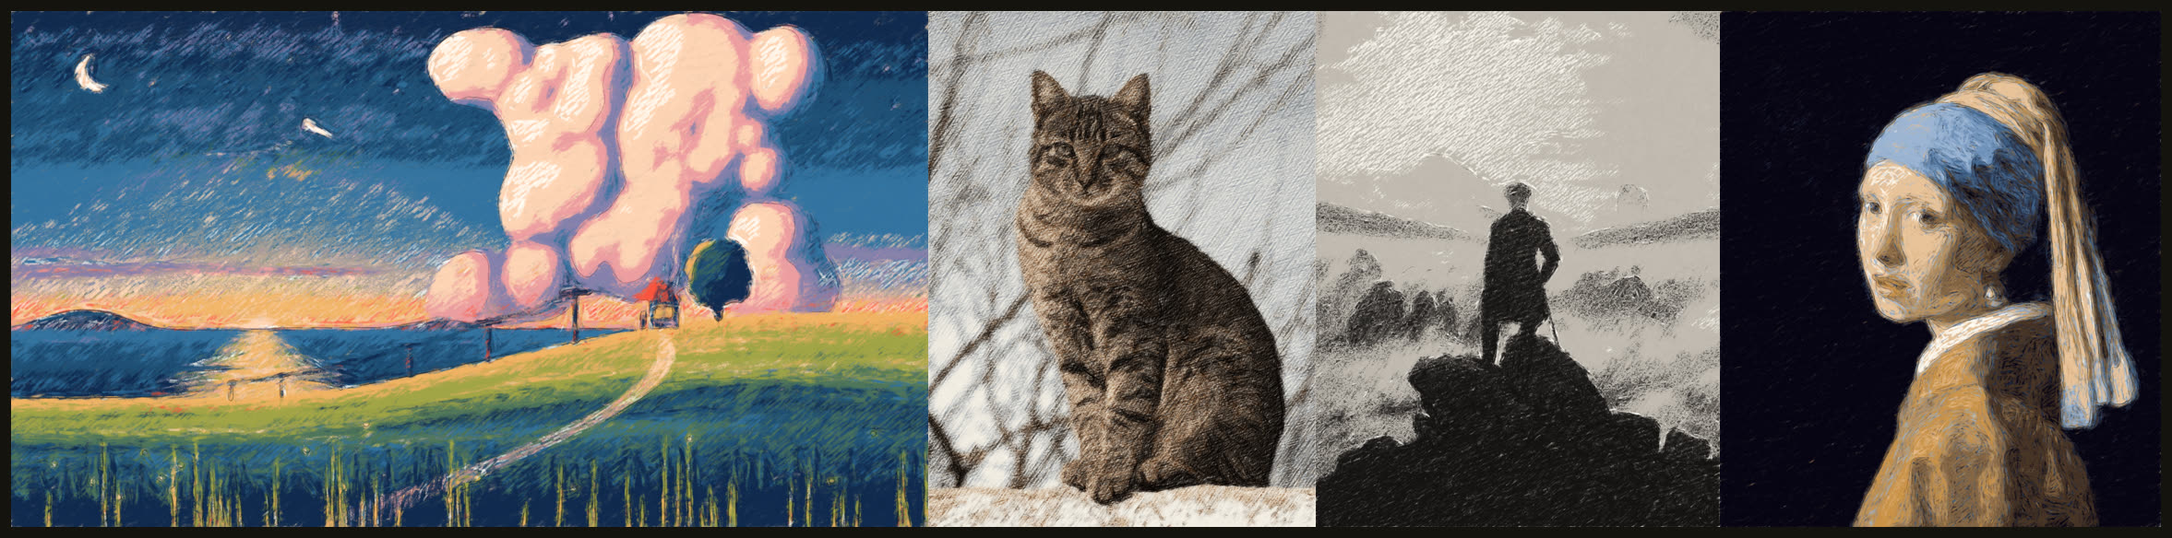
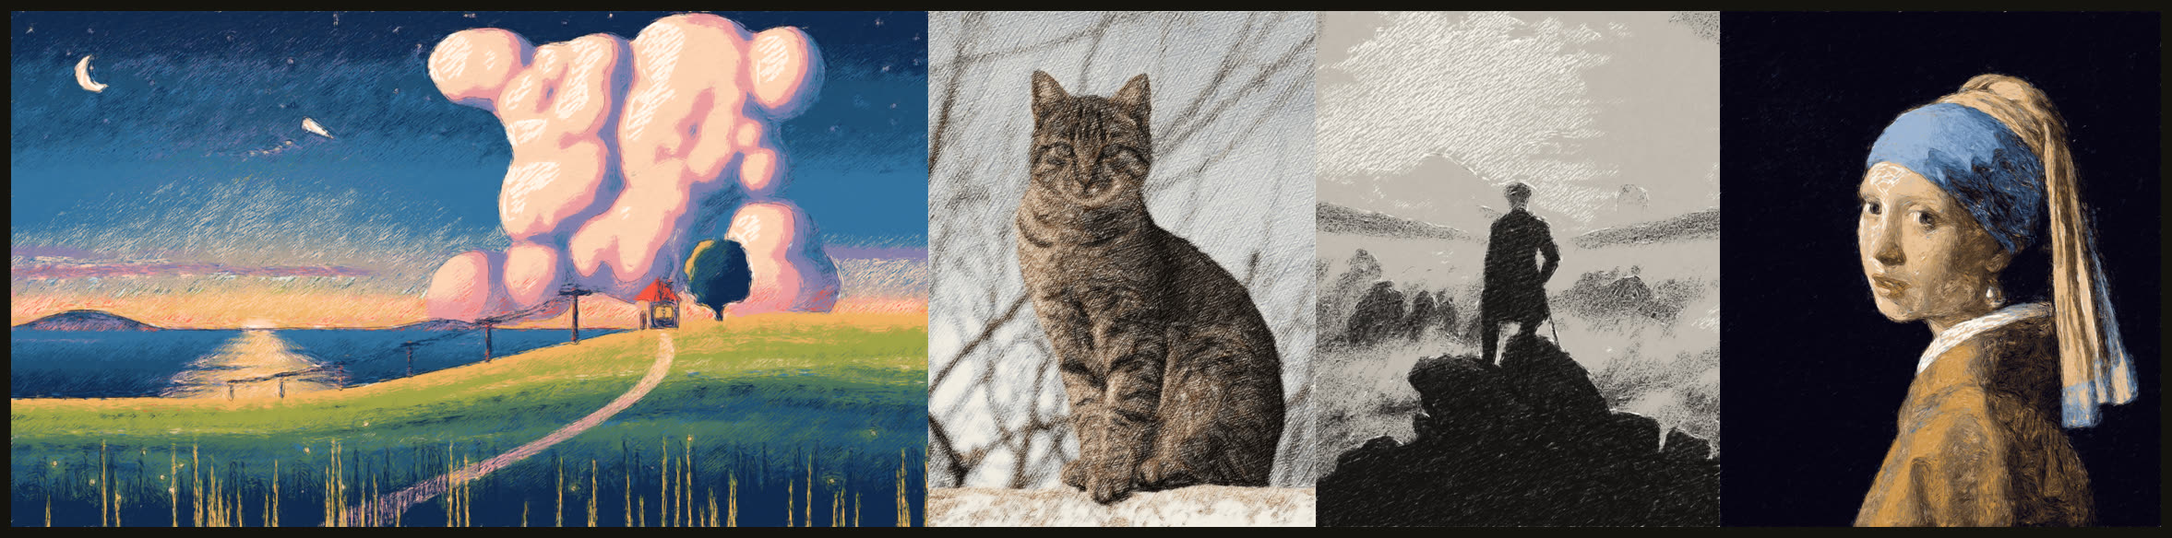
Malarz: poziomy kadr filmu, kredki bez przyciemniania, kreda w rundach, detal pasteli
- pracownia: układ poziomy 1920×1080 dla prac panoramicznych (sam się włącza,
  --uklad pion|poziom wymusza); film.mjs bierze rozmiar klatki z canvasu
- rysownik: przezroczysty pigment kładziony ostrożnie (nacisk ≤ 1, bez wzmocnienia),
  ciemne kredki rysują tylko tam, gdzie wygrywają ze wszystkimi, podkład wąsko
  w miejscach z rysunkiem (nie zalewa oczu ani okien); wypisuje jasność wzoru i rysunku
- węgiel: biała kreda w dwóch rundach (szeroko, potem krawędzią) zamiast drobnych kresek
- pastele: ostra runda detalu
- SKILL.md, README, CLAUDE.md: opis układów kadru i nowe pułapki

Claude-Session: https://claude.ai/code/session_01XVjSd4B2vaXKSG7hxcKneW

diff --git a/.claude/skills/malarz/lib/rysownik.js b/.claude/skills/malarz/lib/rysownik.js
@@ -18,7 +18,12 @@ import { rozmyj, szarosc, kierunki } from './pole.js';
 /**
  * Style suche. runda: kat, odstep (× szerokość narzędzia), dl [min,max], nacisk, co (odstęp punktów),
  * szer (× szerokość), poForma — kreska idzie za polem kierunków (tam, gdzie wzór ma wyraźny rysunek),
- * ciemne — tylko n najciemniejszych kredek. nasycenie — rysownik przesadza kolor wzoru jak człowiek.
+ * ostro — runda detalu dla pigmentu kryjącego: rysownik porównuje kartkę ze wzorem prawie bez rozmycia
+ * (drobne kształty: oczy, okna). Przezroczystym kredkom szkodzi — gonią wtedy ziarno papieru.
+ * ciemne — rysuje tylko n najciemniejszych kredek (i tylko tam, gdzie wygrywają z pozostałymi).
+ * nasycenie — rysownik przesadza kolor wzoru jak człowiek. swiatla — rundy bieli na papierze tonowanym
+ * (zysk: o ile biel musi poprawić miejsce, żeby w ogóle ją położyć). Pigment przezroczysty kładzie się
+ * ostrożnie (nacisk ≤ 1): za ciemnego miejsca nie da się już rozjaśnić.
  */
 export const STYLE_SUCHE = {
   kredki: {
@@ -26,24 +31,30 @@ export const STYLE_SUCHE = {
     papier: { kolor: [246, 241, 230], ziarno: 1 }, narzedzie: 'kredka', barw: 12, moc: 1.2, nasycenie: 1.3, szkic: 'olowek', akcent: 'kredka',
     rundy: [
       { nazwa: 'Podkład', kat: -0.95, odstep: 0.8, dl: [40, 80], nacisk: 0.7, co: 8, szer: 1.7 },      // bokiem grafitu: miękki, ziarnisty ton
-      { nazwa: 'Druga warstwa', kat: -0.30, odstep: 0.8, dl: [22, 46], nacisk: 0.9, co: 5, szer: 1.25 },
-      { nazwa: 'Po formie', poForma: true, odstep: 0.9, dl: [10, 24], nacisk: 1.05, co: 3.5, szer: 0.85 },
-      { nazwa: 'Dociemnienie', kat: -1.35, odstep: 0.9, dl: [8, 20], nacisk: 1.2, co: 3, szer: 0.7, ciemne: 4 },
-      { nazwa: 'Detal', poForma: true, odstep: 0.9, dl: [5, 12], nacisk: 1.3, co: 2.2, szer: 0.5, ciemne: 3 },   // zaostrzoną kredką
+      { nazwa: 'Druga warstwa', kat: -0.30, odstep: 0.8, dl: [22, 46], nacisk: 0.85, co: 5, szer: 1.25 },
+      { nazwa: 'Po formie', poForma: true, odstep: 0.9, dl: [10, 24], nacisk: 0.95, co: 3.5, szer: 0.85 },
+      { nazwa: 'Dociemnienie', kat: -1.35, odstep: 0.9, dl: [8, 20], nacisk: 1, co: 3, szer: 0.7, ciemne: 4 },
+      { nazwa: 'Detal', poForma: true, odstep: 0.9, dl: [5, 12], nacisk: 1, co: 2.2, szer: 0.5, ciemne: 3 },   // zaostrzoną kredką
     ],
   },
   pastele: {
     opis: 'suche pastele na tonowanym papierze: szerokie plamy bokiem pałeczki, potem krawędzią',
     papier: { kolor: [178, 164, 148], ziarno: 1.15 }, narzedzie: 'pastel', barw: 10, moc: 1, nasycenie: 1.2, kryjace: true, szkic: 'wegiel', akcent: 'wegiel', biel: 'pastel',
+    swiatla: [{ poForma: true, szer: 0.3, odstep: 1.3, dl: [6, 18], co: 3, prog: 0.3, zysk: 900 }],        // biel tylko jako akcent
     rundy: [
       { nazwa: 'Plamy', kat: -0.9, odstep: 0.8, dl: [36, 80], nacisk: 0.85, co: 9, szer: 1.2 },
       { nazwa: 'Forma', kat: -0.2, odstep: 0.8, dl: [18, 40], nacisk: 1, co: 6, szer: 0.7 },
       { nazwa: 'Krawędzią', poForma: true, odstep: 0.9, dl: [8, 20], nacisk: 1.1, co: 3.5, szer: 0.36 },
+      { nazwa: 'Detal', poForma: true, odstep: 0.9, dl: [4, 10], nacisk: 1.1, co: 1.8, szer: 0.2, ostro: true },   // rogiem pałeczki
     ],
   },
   wegiel: {
     opis: 'węgiel i biała kreda na szarym papierze: sam walor',
     papier: { kolor: [196, 190, 180], ziarno: 1.2 }, narzedzie: 'wegiel', mono: [34, 31, 30], szkic: 'wegiel', akcent: 'wegiel', biel: 'pastel',
+    swiatla: [                                              // kreda kładziona jak węgiel: najpierw szeroko, potem krawędzią
+      { kat: -0.95, szer: 0.75, odstep: 0.8, dl: [30, 70], co: 8, prog: 0.1, zysk: 250, nacisk: 0.8 },
+      { poForma: true, szer: 0.3, odstep: 0.9, dl: [8, 20], co: 3.5, prog: 0.2, zysk: 400 },
+    ],
     rundy: [
       { nazwa: 'Walor', kat: -0.95, odstep: 0.75, dl: [30, 70], nacisk: 0.8, co: 8 },
       { nazwa: 'Cienie', kat: -0.3, odstep: 0.7, dl: [16, 36], nacisk: 1, co: 5, szer: 0.6 },
@@ -55,9 +66,9 @@ export const STYLE_SUCHE = {
     papier: { kolor: [248, 246, 240], ziarno: 0.9 }, narzedzie: 'olowek', mono: [58, 57, 62], szkic: 'olowek', akcent: 'olowek',
     rundy: [
       { nazwa: 'Szraf', kat: -0.95, odstep: 1.5, dl: [30, 64], nacisk: 0.8, co: 7 },
-      { nazwa: 'Szraf krzyżowy', kat: 0.45, odstep: 1.3, dl: [20, 40], nacisk: 1, co: 5 },
-      { nazwa: 'Po formie', poForma: true, odstep: 1.1, dl: [10, 22], nacisk: 1.1, co: 3.5 },
-      { nazwa: 'Dociemnienie', kat: -1.4, odstep: 1.0, dl: [8, 18], nacisk: 1.25, co: 3 },
+      { nazwa: 'Szraf krzyżowy', kat: 0.45, odstep: 1.3, dl: [20, 40], nacisk: 0.9, co: 5 },
+      { nazwa: 'Po formie', poForma: true, odstep: 1.1, dl: [10, 22], nacisk: 1, co: 3.5 },
+      { nazwa: 'Dociemnienie', kat: -1.4, odstep: 1.0, dl: [8, 18], nacisk: 1, co: 3 },
     ],
   },
 };
@@ -139,14 +150,14 @@ export function rysuj(o) {
   const r = Rysunek({ W, H, papier: { ...st.papier, ...o.papier }, tytul: o.tytul, autor: o.autor, styl: o.styl, ziarno: o.ziarno });
   const K = r.kartka, gray = szarosc(T, N), pole = kierunki(gray, W, H, 2.2);
   const kanal = (src, c) => { const k = new Float32Array(N); for (let i = 0; i < N; i++) k[i] = src[i * 3 + c]; return k; };
-  const Tb = [0, 1, 2].map((c) => rozmyj(kanal(T, c), W, H, 1.2));
+  const Tm = [0, 1, 2].map((c) => rozmyj(kanal(T, c), W, H, 1.2)), To = [0, 1, 2].map((c) => rozmyj(kanal(T, c), W, H, 0.6));
   const probka = (m, x, y) => {                          // dwuliniowo z mapy W×H
     const xx = Math.max(0, Math.min(W - 1.001, x - 0.5)), yy = Math.max(0, Math.min(H - 1.001, y - 0.5)), xi = xx | 0, yi = yy | 0, fx = xx - xi, fy = yy - yi, i = yi * W + xi;
     return m[i] * (1 - fx) * (1 - fy) + m[i + 1] * fx * (1 - fy) + m[i + W] * (1 - fx) * fy + m[i + W + 1] * fx * fy;
   };
   // dla jednej kredki: ile jej (0..1 pełnego przejścia) najbardziej zbliży kartkę do wzoru i jaki błąd zostanie
-  const rozmyta = () => [0, 1, 2].map((c) => rozmyj(kanal(K.C, c), W, H, 1.2));
-  function proba(kol, narz, Cb) {
+  const rozmyta = (sigma) => [0, 1, 2].map((c) => rozmyj(kanal(K.C, c), W, H, sigma));
+  function proba(kol, narz, Cb, Tb) {
     const D = new Float32Array(N), E = new Float32Array(N), kr = narz.krycie, Tk = kol.map((v) => v / 255), am = narz.sila * 0.95;
     for (let i = 0; i < N; i++) {
       const c0 = Cb[0][i], c1 = Cb[1][i], c2 = Cb[2][i], t0 = Tb[0][i], t1 = Tb[1][i], t2 = Tb[2][i];
@@ -163,8 +174,8 @@ export function rysuj(o) {
   // mapy tonu dla zestawu kredek: w każdym miejscu rysuje tylko ta, która trafia w kolor najlepiej.
   // Bez tego kredki o złym odcieniu „poprawiają” jasność (kolory idą w brąz), a podobne kredki
   // nakładają tę samą poprawkę kilka razy (rysunek wychodzi za ciemny). Mieszanie robi się między rundami.
-  function tony(kredki, narz, minZysk = 30) {
-    const Cb = rozmyta(), pr = kredki.map((k) => proba(k, narz, Cb)), naj = new Float32Array(N).fill(1e12);
+  function tony(kredki, narz, minZysk = 30, ostro = false) {
+    const Tb = ostro ? To : Tm, Cb = rozmyta(ostro ? 0.6 : 1.2), pr = kredki.map((k) => proba(k, narz, Cb, Tb)), naj = new Float32Array(N).fill(1e12);
     for (const p of pr) for (let i = 0; i < N; i++) if (p.E[i] < naj[i]) naj[i] = p.E[i];
     return pr.map((p) => {
       for (let i = 0; i < N; i++) {
@@ -199,14 +210,22 @@ export function rysuj(o) {
   if (st.kryjace) kredki = kredki.slice().reverse();          // pastel: od ciemnych do jasnych, światła na wierzchu
   for (const ru of st.rundy) {
     const przed = r.ile; r.etap(ru.nazwa, st.narzedzie);
-    const lista = ru.ciemne ? kredki.slice().sort((a, b) => jas(a) - jas(b)).slice(0, ru.ciemne) : kredki;
-    const mapy = tony(lista, nz);
-    lista.forEach((kol, nr) => {
-      const D = mapy[nr], szer = nz.szer * (ru.szer ?? 1);
-      r.szraf((x, y) => Math.pow(Math.min(1, probka(D, x, y) * 1.15), 0.62), st.narzedzie, kol, {
+    // ciemne kredki rysują tylko tam, gdzie wygrywają ze wszystkimi — inaczej „poprawiałyby” jasność czernią
+    const mapy = tony(kredki, nz, ru.ostro ? 120 : 30, ru.ostro), prog = ru.ciemne ? kredki.map(jas).sort((a, b) => a - b)[Math.min(kredki.length, ru.ciemne) - 1] : Infinity;
+    kredki.forEach((kol, nr) => {
+      if (jas(kol) > prog) return;
+      const D = mapy[nr], wzm = st.kryjace ? 1.15 : 1, ton = (x, y) => Math.pow(Math.min(1, probka(D, x, y) * wzm), 0.62);
+      const szrafuj = (t, szer) => r.szraf(t, st.narzedzie, kol, {
         kat: ru.kat, odstep: szer * ru.odstep / Math.sqrt(szcz), dl: ru.dl, nacisk: ru.nacisk, co: ru.co, szer,
         kierunek: ru.poForma ? poFormie(-0.7) : undefined,
       });
+      const szer = nz.szer * (ru.szer ?? 1);
+      if (!st.kryjace && (ru.szer ?? 1) > 1) {
+        // szeroka kreska przezroczystym pigmentem zalałaby drobne jasne kształty (oko, okno) na zawsze:
+        // tam, gdzie wzór ma rysunek, podkład kładzie się wąsko
+        szrafuj((x, y) => (wyr(x, y) ? 0 : ton(x, y)), szer);
+        szrafuj((x, y) => (wyr(x, y) ? ton(x, y) : 0), nz.szer * 0.8);
+      } else szrafuj(ton, szer);
     });
     o.log?.(`  ${ru.nazwa}: +${r.ile - przed} kresek`);
   }
@@ -215,17 +234,22 @@ export function rysuj(o) {
   const ak = NARZEDZIA[st.akcent]; let przed = r.ile;
   r.etap('Kontury', st.akcent);
   for (const l of linie.slice(0, Math.round(linie.length * 0.6))) {
-    const s = l.pts[l.pts.length >> 1], kol = st.mono ?? [0, 1, 2].map((c) => Math.round(probka(Tb[c], s[0], s[1]) * 0.5));
+    const s = l.pts[l.pts.length >> 1], kol = st.mono ?? [0, 1, 2].map((c) => Math.round(probka(Tm[c], s[0], s[1]) * 0.5));
     const pts = l.pts.filter((_, i) => i % 3 === 0 || i === l.pts.length - 1).slice(0, 250).map((p) => [p[0], p[1], 0.3 + 0.6 * p[2]]);
     r.kreska(st.akcent, kol, pts, ak.szer * (st.akcent === 'wegiel' ? 0.2 : 0.75));
   }
   o.log?.(`  Kontury: +${r.ile - przed}`);
   if (st.biel) {
     przed = r.ile; r.etap('Światła', st.biel);
-    // biel tylko tam, gdzie naprawdę brakuje światła (akcent, nie poprawianie całego rysunku)
-    const b = NARZEDZIA[st.biel], D = tony([[255, 253, 246]], b, 900)[0], szer = st.biel === 'pastel' ? b.szer * 0.3 : b.szer;
-    r.szraf((x, y) => Math.pow(probka(D, x, y), 0.7), st.biel, [255, 253, 246], { odstep: szer * 1.3, dl: [6, 18], co: 3, szer, prog: 0.3, kierunek: poFormie(-0.7) });
+    const b = NARZEDZIA[st.biel], biel = [255, 253, 246];
+    for (const ru of st.swiatla) {
+      const D = tony([biel], b, ru.zysk)[0], szer = b.szer * ru.szer;
+      r.szraf((x, y) => Math.pow(probka(D, x, y), 0.7), st.biel, biel, { kat: ru.kat, odstep: szer * ru.odstep, dl: ru.dl, co: ru.co, szer, prog: ru.prog, nacisk: ru.nacisk, kierunek: ru.poForma ? poFormie(-0.7) : undefined });
+    }
     o.log?.(`  Światła: +${r.ile - przed}`);
   }
+  // jasność wzoru i rysunku (0..255): rysunek wyraźnie ciemniejszy od wzoru znaczy, że pigmentu jest za dużo
+  const sr = (f) => { let m = 0; for (let i = 0; i < N; i++) m += f(i); return m / N; };
+  o.log?.(`  jasność: wzór ${sr((i) => 0.3 * T[i * 3] + 0.59 * T[i * 3 + 1] + 0.11 * T[i * 3 + 2]).toFixed(0)}, rysunek ${sr((i) => 0.3 * K.C[i * 3] + 0.59 * K.C[i * 3 + 1] + 0.11 * K.C[i * 3 + 2]).toFixed(0)}`);
   return r;
 }

diff --git a/.claude/skills/malarz/pracownia/pracownia.js b/.claude/skills/malarz/pracownia/pracownia.js
@@ -1,9 +1,10 @@
 // pracownia.js — pracownia: obraz powstaje na oczach widza. Jedna funkcja czasu klatka(t):
 // maluje pociągnięcia do chwili t tym samym pędzlem co malarz, oświetla fakturę i rysuje
-// wszystko dookoła (ściana, pędzel, lupa, paleta, lista pędzli, licznik). Kadr 1080 × 1920.
+// wszystko dookoła (ściana, pędzel, lupa, paleta, lista pędzli, licznik). Kadr 1080 × 1920 albo,
+// dla prac panoramicznych, 1920 × 1080.
 //
 // Parametry strony: ?obraz=adres.json (albo window.OBRAZ z tekstem pliku), czas=30 (s malowania),
-// koniec=3.5 (s na gotowy obraz), jakosc (nadpróbkowanie obrazu: 2 w filmie, 1 na żywo), szer=1080,
+// koniec=3.5 (s na gotowy obraz), uklad=pion|poziom (domyślnie wg proporcji pracy), jakosc (nadpróbkowanie obrazu: 2 w filmie, 1 na żywo), szer=1080,
 // film=1 (bez pętli: klatki zamawia film.mjs). Na żywo: spacja = pauza, R = od nowa.
 
 import { Pedzel, odczytaj, plotno, oswietl, BAJTY, RODZAJE } from '../lib/pedzel.js';
@@ -12,7 +13,7 @@ import { Kartka, ETYKIETY } from '../lib/suche.js';
 import { indeks, odczytajSlad } from '../lib/rysunek.js';
 import { rysujPedzel, rysujOlowek } from './narzedzie.js';
 
-const FW = 1080, FH = 1920, WSTEP = 0.9;
+const WSTEP = 0.9;
 const q = new URLSearchParams(location.search);
 const gladko = (a, b, x) => { x = (x - a) / (b - a); return x <= 0 ? 0 : x >= 1 ? 1 : x * x * (3 - 2 * x); };
 const lerp = (a, b, t) => a + (b - a) * t;
@@ -95,13 +96,20 @@ export async function pracownia(canvas) {
   const tekst = window.OBRAZ ?? await (await fetch(q.get('obraz'))).text();
   const { naglowek: n, bajty: buf } = zTekstu(tekst), RYS = n.rodzaj === 'rysunek';
   const CZAS = Number(q.get('czas') ?? 30), KONIEC = Number(q.get('koniec') ?? 3.5), JAK = Number(q.get('jakosc') ?? (q.has('film') ? 2 : 1));
+  // dwa układy kadru: pionowy 1080×1920 (obraz u góry, narzędzia pod nim) i poziomy 1920×1080
+  // (obraz z lewej, narzędzia w kolumnie z prawej) — poziomy sam się włącza dla prac panoramicznych
+  const POZ = (q.get('uklad') ?? (n.W / n.H > 1.2 ? 'poziom' : 'pion')) === 'poziom', FW = POZ ? 1920 : 1080, FH = POZ ? 1080 : 1920;
+  const L = POZ
+    ? { pole: { x: 40, y: 40, w: 1310, h: 1000 }, tytul: [1635, 92, 44, 134, 20, 480], lupa: [1463, -1362], paleta: [1087, -1052], lista: [606, -760], listaWys: 216, stopka: [1390, 490, 1046], blat: 0 }
+    : { pole: { x: 50, y: 196, w: 980, h: 1290 }, tytul: [540, 104, 62, 150, 23, 1000], lupa: [0, 0], paleta: [0, 0], lista: [0, 0], listaWys: 300, stopka: [50, 980, 1888], blat: 1500 };
+  const przesun = (d, f) => { g.save(); g.translate(d[0] * u, d[1] * u); f(); g.restore(); };
   const szer = Number(q.get('szer') ?? FW), u = szer / FW;
   canvas.width = szer; canvas.height = Math.round(FH * u);
   const g = canvas.getContext('2d');
   await document.fonts.ready;
 
   // ---- układ: obraz u góry, na dole lupa, paleta i pędzle --------------------------------
-  const pole = { x: 50, y: 196, w: 980, h: 1290 };
+  const pole = L.pole;
   const sk = Math.min(pole.w / n.W, pole.h / n.H), dw = n.W * sk, dh = n.H * sk;
   const dx = pole.x + (pole.w - dw) / 2, dy = pole.y + (pole.h - dh) / 2;
   const S = JAK * sk * u, E = RYS ? silnikRysunku(n, buf, S) : silnikOleju(n, buf, S), N = E.N, PW = E.PW, PH = E.PH;
@@ -176,9 +184,10 @@ export async function pracownia(canvas) {
     const id = b.getImageData(0, 0, w, h), d = id.data;         // ziarno tynku
     for (let i = 0; i < w * h; i++) { const v = (h01(i * 2 + 1) - 0.5) * 9 + (h01((i >> 2) * 5 + 7) - 0.5) * 5; d[i * 4] += v; d[i * 4 + 1] += v; d[i * 4 + 2] += v; }
     b.putImageData(id, 0, 0);
-    gr = b.createLinearGradient(0, 1500 * u, 0, h);              // blat pod obrazem
+    const bl = (L.blat || FH) * u;
+    gr = b.createLinearGradient(0, bl, 0, h);                    // blat pod obrazem (układ pionowy)
     gr.addColorStop(0, 'rgba(0,0,0,0)'); gr.addColorStop(0.12, 'rgba(8,6,5,.55)'); gr.addColorStop(1, 'rgba(4,3,3,.82)');
-    b.fillStyle = gr; b.fillRect(0, 1500 * u, w, h - 1500 * u);
+    b.fillStyle = gr; b.fillRect(0, bl, w, h - bl);
   }
   const PAL = E.kolory(), PX = 548, PY = 1672;
   const kupki = PAL.map(({ c }, j) => { const a = Math.PI * (1.08 + 0.84 * (j / (PAL.length - 1))); return { c, x: PX + Math.cos(a) * 172 + 6, y: PY + Math.sin(a) * 98 + 18, r: 21 + 5 * h01(j + 3) }; });
@@ -276,7 +285,7 @@ export async function pracownia(canvas) {
 
   function rysujListe(ie, kolor, gotowe) {
     g.save(); g.scale(u, u);
-    const x = 796, y0 = 1548, dy2 = Math.min(44, 300 / n.etapy.length);
+    const x = 796, y0 = 1548, dy2 = Math.min(44, L.listaWys / n.etapy.length);
     g.textBaseline = 'middle';
     n.etapy.forEach((e, k) => {
       const y = y0 + k * dy2, po = gotowe || k < ie, teraz = !gotowe && k === ie, od = k ? n.etapy[k - 1].koniec : 0;
@@ -312,9 +321,9 @@ export async function pracownia(canvas) {
     }
     // tytuł
     g.textAlign = 'center'; g.textBaseline = 'alphabetic';
-    g.fillStyle = '#eadcbd'; g.font = `italic ${62 * u}px Caladea, Georgia, serif`; g.fillText(n.tytul, 540 * u, 104 * u);
-    g.fillStyle = '#8f8676'; g.font = `${23 * u}px Inter, sans-serif`;
-    g.fillText(`${n.autor ? n.autor + '  ·  ' : ''}${RYS ? 'rysowane kodem, kreska po kresce' : 'malowane kodem, pociągnięcie po pociągnięciu'}`, 540 * u, 150 * u);
+    g.fillStyle = '#eadcbd'; g.font = `italic ${L.tytul[2] * u}px Caladea, Georgia, serif`; g.fillText(n.tytul, L.tytul[0] * u, L.tytul[1] * u, L.tytul[5] * u);
+    g.fillStyle = '#8f8676'; g.font = `${L.tytul[4] * u}px Inter, sans-serif`;
+    g.fillText(`${n.autor ? n.autor + '  ·  ' : ''}${RYS ? 'rysowane kodem, kreska po kresce' : 'malowane kodem, pociągnięcie po pociągnięciu'}`, L.tytul[0] * u, L.tytul[3] * u, L.tytul[5] * u);
 
     // obraz: cień na ścianie, bok podobrazia, płótno
     g.save();
@@ -332,9 +341,9 @@ export async function pracownia(canvas) {
     const kolor = [o.r, o.g, o.b];
     const lk = gladko(0.3, 2.4, t - WSTEP - CZAS);
     const tk = t - WSTEP - CZAS;                                   // na koniec lupa wolno krąży po detalu
-    rysujLupe(lerp(o.x, detal.x + detal.rx * Math.sin(tk * 0.9), lk), lerp(o.y, detal.y - detal.ry * Math.cos(tk * 0.9), lk));
-    if (RYS) rysujPiornik(kolor, o.rodzaj, !gotowe); else rysujPalete(tp, kolor, !gotowe);
-    rysujListe(ie, kolor, gotowe);
+    przesun(L.lupa, () => rysujLupe(lerp(o.x, detal.x + detal.rx * Math.sin(tk * 0.9), lk), lerp(o.y, detal.y - detal.ry * Math.cos(tk * 0.9), lk)));
+    przesun(L.paleta, () => (RYS ? rysujPiornik(kolor, o.rodzaj, !gotowe) : rysujPalete(tp, kolor, !gotowe)));
+    przesun(L.lista, () => rysujListe(ie, kolor, gotowe));
 
     // pędzel: wchodzi z prawej z dołu, maluje, po ostatnim pociągnięciu odchodzi
     const wej = gladko(0, WSTEP, t), wyj = gladko(0, 0.9, t - WSTEP - CZAS);
@@ -351,14 +360,15 @@ export async function pracownia(canvas) {
     g.save(); g.scale(u, u);
     const nr = Math.min(N, gotowe ? N : ile + 1);
     g.textBaseline = 'alphabetic'; g.textAlign = 'left'; g.fillStyle = '#cbbd9f'; g.font = '600 22px Inter, sans-serif';
-    g.fillText(`${tys(nr)}`, 50, 1888);
+    const [sx, sw, sy] = L.stopka;
+    g.fillText(`${tys(nr)}`, sx, sy);
     const wl = g.measureText(tys(nr)).width;
-    g.fillStyle = '#7d7566'; g.font = '20px Inter, sans-serif'; g.fillText(` / ${tys(N)} ${E.jednostka}  ·  ${E.narzedzie(ie, o)}`, 50 + wl, 1888);
+    g.fillStyle = '#7d7566'; g.font = '20px Inter, sans-serif'; g.fillText(` / ${tys(N)} ${E.jednostka}  ·  ${E.narzedzie(ie, o)}`, sx + wl, sy);
     const q0 = E.rekord(Math.min(N - 1, nr - 1)); let hex = '';
     for (let k = 0; k < BAJTY; k++) hex += buf[q0 + k].toString(16).padStart(2, '0').toUpperCase() + (k < BAJTY - 1 ? ' ' : '');
-    g.textAlign = 'right'; g.fillStyle = '#6f685b'; g.font = '17px "JetBrains Mono", monospace'; g.fillText(hex, 1030, 1888);
-    g.fillStyle = 'rgba(255,255,255,.08)'; g.fillRect(50, 1902, 980, 3);
-    g.fillStyle = '#c9a658'; g.fillRect(50, 1902, 980 * (gotowe ? 1 : nr / N), 3);
+    g.textAlign = 'right'; g.fillStyle = '#6f685b'; g.font = '17px "JetBrains Mono", monospace'; g.fillText(hex, sx + sw, POZ ? sy - 34 : sy);     // w wąskiej kolumnie bajty idą wiersz wyżej
+    g.fillStyle = 'rgba(255,255,255,.08)'; g.fillRect(sx, sy + 14, sw, 3);
+    g.fillStyle = '#c9a658'; g.fillRect(sx, sy + 14, sw * (gotowe ? 1 : nr / N), 3);
     g.restore();
   }
 

diff --git a/.claude/skills/malarz/motywy/lato.js b/.claude/skills/malarz/motywy/lato.js
@@ -5,7 +5,7 @@
 //
 //   node maluj.mjs motywy/lato.js --styl kredki      (albo pastele, olej)
 
-import { namaluj, gladko, ogr, miesz, pasmo, fbm, fbm1, h2 } from '../lib/szkic.js';
+import { namaluj, gladko, miesz, pasmo, fbm, fbm1, h2 } from '../lib/szkic.js';
 
 export const TYTUL = 'Ostatni wieczór lata';
 export const AUTOR = 'z wyobraźni';

diff --git a/.claude/skills/malarz/SKILL.md b/.claude/skills/malarz/SKILL.md
@@ -1,6 +1,6 @@
 ---
 name: malarz
-description: Silnik malarski w kodzie — maluje i rysuje obrazy tak, jak robi to ręka. „Malarz” kładzie tysiące pociągnięć pędzla (olej, impresjonizm, etiuda, wierna kopia), „rysownik” rysuje narzędziami suchymi na papierze z ziarnem (kredki, suche pastele, węgiel, ołówek); wzorem jest zdjęcie albo motyw wymyślony w kodzie, można też rysować z ręki. Do tego film z pracowni (pionowo 1080×1920), na którym praca powstaje kreska po kresce. Użyj, gdy ktoś prosi o namalowanie albo narysowanie czegoś, obraz ze zdjęcia, „sztukę rysowaną kodem / JavaScriptem”, rysunek wyglądający na ręczny, film z malowania, albo pokazuje projekt w rodzaju mona-lisa-js czy p5.brush. To NIE jest silnik rysowanych filmów z src/ (ręka, lektor) ani skill voxel-ascii — osobne narzędzie w czystym JS (Node, bez zależności).
+description: Silnik malarski w kodzie — maluje i rysuje obrazy tak, jak robi to ręka. „Malarz” kładzie tysiące pociągnięć pędzla (olej, impresjonizm, etiuda, wierna kopia), „rysownik” rysuje narzędziami suchymi na papierze z ziarnem (kredki, suche pastele, węgiel, ołówek); wzorem jest zdjęcie albo motyw wymyślony w kodzie, można też rysować z ręki. Do tego film z pracowni (pionowy 1080×1920 albo poziomy 1920×1080), na którym praca powstaje kreska po kresce. Użyj, gdy ktoś prosi o namalowanie albo narysowanie czegoś, obraz ze zdjęcia, „sztukę rysowaną kodem / JavaScriptem”, rysunek wyglądający na ręczny, film z malowania, albo pokazuje projekt w rodzaju mona-lisa-js czy p5.brush. To NIE jest silnik rysowanych filmów z src/ (ręka, lektor) ani skill voxel-ascii — osobne narzędzie w czystym JS (Node, bez zależności).
 ---
 
 # malarz — obraz malowany pędzlem, pociągnięcie po pociągnięciu
@@ -24,7 +24,7 @@ M=.claude/skills/malarz                                  # wymaga: Node ≥ 20, 
 node $M/maluj.mjs zdjecie.jpg --tytul "Portret" --skup 0.5,0.3,0.15,0.18,3   # → out/malarz/zdjecie/
 node $M/maluj.mjs $M/motywy/jezioro.js --styl olej       # motyw z wyobraźni
 node $M/maluj.mjs $M/motywy/lato.js --styl pastele       # to samo narzędziami suchymi (16:9)
-node $M/film.mjs out/malarz/jezioro/obraz.json           # film.mp4 (1080×1920, ok. 34 s)
+node $M/film.mjs out/malarz/jezioro/obraz.json           # film.mp4 (ok. 34 s; pion 1080×1920, panorama 1920×1080)
 node $M/film.mjs out/malarz/jezioro/obraz.json --arkusz  # 6 klatek filmu w jednym PNG
 node $M/strona.mjs out/malarz/jezioro/obraz.json         # obraz.html: jeden plik, maluje na żywo w przeglądarce
 node $M/odtworz.mjs out/malarz/jezioro/obraz.json --skala 4 --okno 0.2,0.4,0.3,0.2   # detal z bliska
@@ -48,10 +48,10 @@ Style suche (definicje w `lib/rysownik.js`; wynik to kreski, nie pociągnięcia 
 
 | Styl | Kresek | Czas | Charakter |
 |---|---|---|---|
-| `pastele` | 40–55 tys. | ok. 15 s | suche pastele na tonowanym papierze: kryją, żywe kolory, najlepsze do pejzaży i barwnych motywów |
+| `pastele` | 45–100 tys. | ok. 20 s | suche pastele na tonowanym papierze: kryją, żywe kolory, najlepsze do pejzaży i barwnych motywów |
 | `kredki` | 110–145 tys. | ok. 30 s | kredki na jasnym papierze: warstwy szrafu, pigmenty mieszają się przez nakładanie; wychodzi ciemniej i spokojniej niż wzór |
 | `wegiel` | 30–50 tys. | ok. 15 s | węgiel i biała kreda na szarym papierze, sam walor |
-| `olowek` | 80–120 tys. | ok. 25 s | ołówek, szraf krzyżowy |
+| `olowek` | 60–120 tys. | ok. 20 s | ołówek, szraf krzyżowy |
 
 `--szczegol 1.5` mnoży liczbę pociągnięć. Styl to dane: etapy (pędzel, szerokości, długości,
 liczba), cechy pędzla (włosie, suchość, smugi), światło, ewentualnie `kolor` i `wygladz`.
@@ -90,6 +90,8 @@ liczba), cechy pędzla (włosie, suchość, smugi), światło, ewentualnie `kolo
    pędzlem: pędzel rysowany włos po włosie, lupa ×4, paleta z farbami (skupiska kolorów
    pociągnięć) i śladami mieszania, lista pędzli, licznik i 12 bajtów bieżącego pociągnięcia.
    Dla rysunków: ołówek albo pałeczka w kadrze, piórnik z użytymi kredkami zamiast palety.
+   Kadr jest pionowy (1080×1920), a dla prac szerszych niż 1,2:1 sam przechodzi w poziomy
+   (1920×1080: praca z lewej, narzędzia w kolumnie z prawej); `--uklad pion|poziom` wymusza.
    `film.mjs` zrzuca klatki przez Chromium i koduje MP4; `strona.mjs` pakuje pracownię i obraz
    do jednego pliku HTML (bez sieci i grafik; spacja = pauza, R = od nowa).
 
@@ -190,12 +192,17 @@ wielu poprawek „na oko” (render → obejrzyj → popraw) — do pełnych kom
   - ziarno o zbyt ostrym progu daje „sól i pieprz”; próg ma być miękki, a ziarno ma się wypełniać;
   - cienkie, rzadkie kreski wyglądają jak druciki: podkład kładzie się szeroko (bokiem grafitu),
     dopiero detal zaostrzoną kredką; kreska po formie tylko tam, gdzie wzór ma wyraźny rysunek;
+  - szeroka kreska przezroczystym pigmentem zalewa drobne jasne kształty (oko, okno) na zawsze:
+    tam, gdzie wzór ma rysunek, podkład kładzie się wąsko; nacisk przezroczystych kredek ≤ 1,
+    a ciemne rysują tylko tam, gdzie wygrywają ze wszystkimi. `maluj.mjs` wypisuje jasność wzoru
+    i rysunku — rysunek wyraźnie ciemniejszy znaczy, że pigmentu jest za dużo;
+  - ostra runda detalu (porównanie bez rozmycia) pomaga pastelom, a kredkom szkodzi: gonią ziarno
+    papieru i liczba kresek rośnie trzykrotnie bez zysku;
   - część śladu rysowana w filmie nie może nachodzić na poprzednią (ziarno już zalepione dałoby
     więcej pigmentu niż w całości) — odcinki dzieli się bez zakładek.
 
 ## Ograniczenia
 
-- Kadr filmu jest pionowy (1080×1920); obraz poziomy mieści się, ale zostaje dużo ściany.
 - Kredki (pigment przezroczysty) nie rozjaśnią tego, co już położone: rysunek wychodzi ciemniejszy
   i mniej nasycony niż wzór; do jaskrawych motywów lepsze są `pastele`.
 - Malarz nie „rozumie” tematu: twarz trzeba mu wskazać (`--skup`). Farby mieszają się jak

diff --git a/README.md b/README.md
@@ -511,7 +511,7 @@ M=.claude/skills/malarz
 node $M/maluj.mjs zdjecie.jpg --styl olej --skup 0.5,0.3,0.15,0.18,3   # obraz → out/malarz/zdjecie/
 node $M/maluj.mjs $M/motywy/jezioro.js                                 # motyw z wyobraźni
 node $M/maluj.mjs $M/motywy/lato.js --styl pastele                     # rysunek pastelami (16:9)
-node $M/film.mjs out/malarz/jezioro/obraz.json                         # film z pracowni 1080×1920
+node $M/film.mjs out/malarz/jezioro/obraz.json                         # film z pracowni (pion albo poziom)
 node $M/strona.mjs out/malarz/jezioro/obraz.json                       # jeden plik HTML, maluje na żywo
 npm run test:malarz
 ```

diff --git a/CLAUDE.md b/CLAUDE.md
@@ -39,7 +39,7 @@ silnika z `src/` i jego zasad rysownika. Instrukcja i pułapki: jego `SKILL.md`.
 `.claude/skills/malarz/` (skill `malarz`) to osobny pipeline w czystym JS (Node, bez zależności):
 wzór (zdjęcie albo motyw z kodu) → lista pociągnięć pędzla albo kresek narzędzi suchych (kredki,
 pastele, węgiel, ołówek) → podglądy PNG i film z pracowni
-1080×1920. Nie używa silnika z `src/` i jego zasad rysownika. Instrukcja, style i pułapki:
+(1080×1920 albo 1920×1080). Nie używa silnika z `src/` i jego zasad rysownika. Instrukcja, style i pułapki:
 jego `SKILL.md`; testy: `node --test .claude/skills/malarz/tests/*.test.mjs`.
 
 ## Repozytorium
